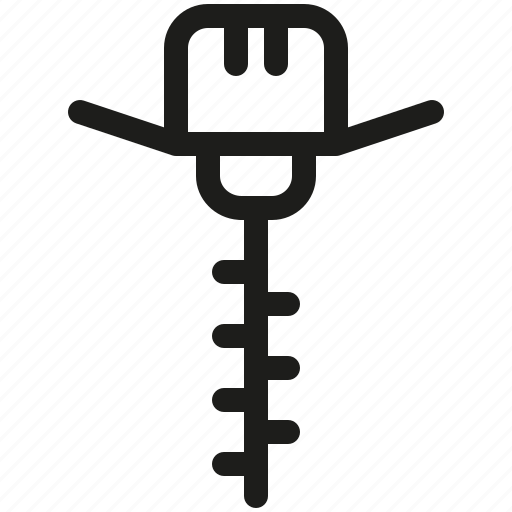
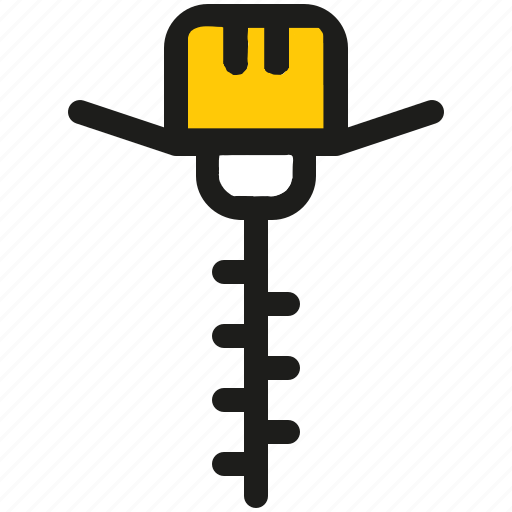
Updated Drill.jpg to include brand color and not be fully transparent, Updated background-area CSS to include the whole layers image.

Changed region(s): [[0.3438, 0.0312, 0.6562, 0.2812]]

diff --git a/styles.css b/styles.css
@@ -30,22 +30,24 @@ h1 {
   align-items: center;
   justify-content: center;
   min-height: 100vh;
-  width: 100vw;
+  /*width: 100vw;*/
   box-sizing: border-box;
+  margin-bottom: 20px;
 }
 
 #background-area {
   position: relative;
   width: 100%;
   height: 100%;
-  max-width: 400px;
-  aspect-ratio: 3 / 4; /* Always keep 3:4 ratio */
+  max-width: 350px;
+  aspect-ratio: 9 / 16; /* Always keep 3:4 ratio */
   margin-bottom: 20px;
   background-image: url("img/Full Layers BG.png");
-  background-size: contain; /* Fill the whole area, no white space */
+  background-size: cover; /* Fill the whole area, no white space */
   background-repeat: no-repeat;
   background-position: bottom;
-  box-shadow: 0 4px 16px rgba(0,0,0,0.1);
+  box-shadow: 0 4px 16px rgba(0,0,0,0.7);
+  border-radius: 24px;
 }
 
 #drill {
@@ -100,7 +102,7 @@ h1 {
 #victory-screen {
   position: fixed;
   top: 0; left: 0; right: 0; bottom: 0;
-  background: rgba(255,255,255,0.95);
+  background: rgba(204, 56, 56, 0.85);
   display: flex;
   flex-direction: column;
   align-items: center;

diff --git a/script.js b/script.js
@@ -14,7 +14,7 @@ let currentLayer = 0; // Start at the top layer
 let clicks = 0; // Clicks in current layer
 
 // Drill positions for each layer (in px from top)
-const drillPositions = [130, 180, 220, 290, 340, 430];
+const drillPositions = [160, 180, 220, 290, 340, 430];
 
 // Info bubbles to show at different stages
 const infoBubbles = [
